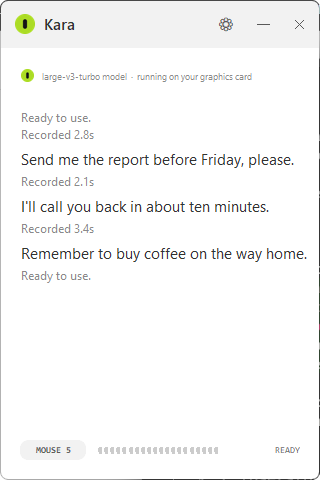
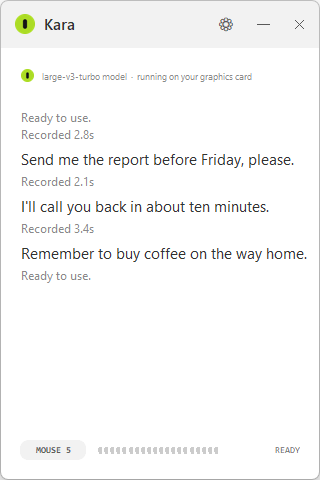
Cut the desktop out of the screenshots properly, and version the download
Two things the shots were carrying that should not have been there.

The corners were cut at a guessed 8px radius. DWM's radius is not 8, so a
crescent of desktop survived in each one: 146 distinct colours around a
one-pixel border, none of them the app's, and visible against the page.

Guessing a better number would have been the same mistake with a
different value, so nothing is guessed now. The window is photographed
twice, over black and over white, and the transparency is solved from the
pair -- composited over black a pixel is colour*a, over white it is
colour*a + 255*(1-a), so the difference gives the alpha and nothing else
can affect it. 146 colours down to 29, and those 29 are the curve.

Getting there needed the backdrop to stop being topmost. The app already
is, and Windows keeps every topmost window above every ordinary one, so
the fight over z-order was self-inflicted; while both were topmost the
sheet covered the app in both shots and the matte came out empty. It
wrote four blank PNGs without complaining, so matte() now refuses to
return something almost entirely transparent.

Separately, the download links carry the version. They pointed at
releases/latest/download/Kara-Setup.exe, a copy under a name that never
changes so the button never needed editing -- at the cost of everyone
downloading a file called "Kara-Setup.exe" with no clue which version it
was. stamp_docs keeps the seven links current instead, and the release
[…]

diff --git a/docs/index.html b/docs/index.html
@@ -92,7 +92,7 @@
     <nav><a href="install.html">Install guide</a></nav>
     <span class="grow"></span>
     <button class="theme-toggle" data-theme-toggle type="button"></button>
-    <a class="btn" href="https://github.com/bryramirezp/kara/releases/latest/download/Kara-Setup.exe">Download</a>
+    <a class="btn" href="https://github.com/bryramirezp/kara/releases/download/v0.2.4/Kara-Setup-0.2.4.exe">Download</a>
   </div>
 </div>
 
@@ -105,7 +105,7 @@
       Hold a key, say it out loud, let go. Your words land in whatever app you
       are using. No internet, no account, no subscription.
     </p>
-    <a class="btn" id="heroBtn" href="https://github.com/bryramirezp/kara/releases/latest/download/Kara-Setup.exe">Download for Windows</a>
+    <a class="btn" id="heroBtn" href="https://github.com/bryramirezp/kara/releases/download/v0.2.4/Kara-Setup-0.2.4.exe">Download for Windows</a>
     <p class="sub">
       <!--dl-size-->72 MB<!--/dl-size--> · Windows 10 and 11 · nothing else to install<br>
       <a href="install.html">Step by step install guide</a>
@@ -206,7 +206,7 @@
     <p class="eyebrow">Getting it</p>
     <h2>Download and run. That is the whole setup.</h2>
     <p style="margin-top:1.6em">
-      <a class="btn" href="https://github.com/bryramirezp/kara/releases/latest/download/Kara-Setup.exe">Download the installer</a>
+      <a class="btn" href="https://github.com/bryramirezp/kara/releases/download/v0.2.4/Kara-Setup-0.2.4.exe">Download the installer</a>
     </p>
     <p>
       It installs for you only, so Windows never asks for an administrator

diff --git a/docs/install.html b/docs/install.html
@@ -72,7 +72,7 @@
     <nav><a href="install.html" aria-current="page">Install guide</a></nav>
     <span class="grow"></span>
     <button class="theme-toggle" data-theme-toggle type="button"></button>
-    <a class="btn" href="https://github.com/bryramirezp/kara/releases/latest/download/Kara-Setup.exe">Download</a>
+    <a class="btn" href="https://github.com/bryramirezp/kara/releases/download/v0.2.4/Kara-Setup-0.2.4.exe">Download</a>
   </div>
 </div>
 
@@ -101,7 +101,7 @@
           You do not need Python or anything else installed first.
         </p>
         <div class="dl-row">
-          <a class="btn" href="https://github.com/bryramirezp/kara/releases/latest/download/Kara-Setup.exe">Download Kara-Setup.exe</a>
+          <a class="btn" href="https://github.com/bryramirezp/kara/releases/download/v0.2.4/Kara-Setup-0.2.4.exe">Download Kara-Setup.exe</a>
           <span class="meta">or pick a version from <a href="https://github.com/bryramirezp/kara/releases/latest">all releases</a></span>
         </div>
       </li>

diff --git a/tools/screenshots.py b/tools/screenshots.py
@@ -9,10 +9,13 @@ day showing an app that no longer existed. Taking them by hand is what made that
 possible, so this does the whole round -- set the theme, launch, wait, find the
 window, capture, restore the theme -- and can be re-run after any UI change.
 
-The window has rounded corners now, and a rectangular grab of the screen would
-carry four little wedges of whatever was behind it. So the corners are cut out
-to transparency afterwards, at the radius Windows itself uses, and the PNGs go
-out with an alpha channel that sits cleanly on either theme of the page.
+The window has rounded corners now, and a rectangular grab of the screen carries
+four little wedges of whatever was behind it. Rather than cut them at a radius --
+which was tried, and left a crescent of desktop in every corner because DWM's
+radius is not the one that was guessed -- the app is photographed twice, over
+black and over white, and the true transparency is solved from the pair. See
+matte(). The PNGs go out with an alpha channel that sits cleanly on either theme
+of the page.
 
 Requires the app's own dependencies, because it runs the app. Your own theme
 setting is put back at the end, including if this crashes.
@@ -30,10 +33,6 @@ ROOT = os.path.dirname(os.path.dirname(os.path.abspath(__file__)))
 DOCS = os.path.join(ROOT, "docs")
 APP_DIR = os.path.join(os.environ.get("LOCALAPPDATA", os.path.expanduser("~")), "Kara")
 SETTINGS = os.path.join(APP_DIR, "settings.json")
-
-# Windows 11 rounds a small window at 8 device-independent pixels.
-CORNER_R = 8
-
 
 def read_settings():
     try:
@@ -140,24 +139,79 @@ def find_hwnd(pid):
 
 
 def grab(rect):
-    import ctypes
-    from ctypes import wintypes
     # Screen grab through PIL rather than GDI: the window is composited, and a
     # PrintWindow of a Tk canvas comes back with holes in it.
     from PIL import ImageGrab
-    return ImageGrab.grab(bbox=rect, all_screens=True).convert("RGBA")
+    return ImageGrab.grab(bbox=rect, all_screens=True).convert("RGB")
 
 
-def round_corners(img, radius):
-    """Cut the corners to transparency so the shot has no desktop in it."""
-    from PIL import ImageDraw
-    ss = 4
-    mask = Image.new("L", (img.width * ss, img.height * ss), 0)
-    ImageDraw.Draw(mask).rounded_rectangle(
-        (0, 0, mask.width - 1, mask.height - 1), radius=radius * ss, fill=255)
-    mask = mask.resize(img.size, Image.LANCZOS)
-    out = img.copy()
-    out.putalpha(mask)
+def backdrop(colour):
+    """A fullscreen sheet of one colour, behind the app."""
+    exe = os.path.join(os.path.dirname(sys.executable), "pythonw.exe")
+    if not os.path.exists(exe):
+        exe = sys.executable
+    p = subprocess.Popen([exe, os.path.join(ROOT, "tools", "_backdrop.py"), colour])
+    time.sleep(1.4)
+    return p
+
+
+def raise_app(pid):
+    """Put the app back on top of the backdrop, which is topmost too."""
+    import ctypes
+    hwnd = find_hwnd(pid)
+    if hwnd:
+        # HWND_TOPMOST, SWP_NOMOVE | SWP_NOSIZE | SWP_NOACTIVATE
+        ctypes.windll.user32.SetWindowPos(hwnd, -1, 0, 0, 0, 0,
+                                          0x0002 | 0x0001 | 0x0010)
+        time.sleep(0.4)
+
+
+def matte(over_black, over_white):
+    """Recover the real transparency by photographing the window twice.
+
+    The first version of this cut the corners to a guessed 8px radius. DWM's
+    radius is not 8, so a crescent of desktop survived in each corner -- 146
+    distinct colours around a one-pixel border, none of them the app's.
+
+    Guessing a better number would be the same mistake with a different value,
+    so nothing is guessed. A pixel composited over black and again over white
+    gives two equations: black = colour*a, white = colour*a + 255*(1-a). Their
+    difference is 255*(1-a) and depends on nothing else, so the alpha falls out
+    exactly -- including the part-covered pixels along the curve, which is what
+    makes the edge look drawn rather than cut.
+    """
+    b = over_black.load()
+    w = over_white.load()
+    W, H = over_black.size
+    out = Image.new("RGBA", (W, H))
+    o = out.load()
+    for y in range(H):
+        for x in range(W):
+            br, bg, bb = b[x, y]
+            wr, wg, wb = w[x, y]
+            # One alpha per pixel, from the mean of the three channels: the
+            # difference is the same in each for a grey-agnostic compositor, and
+            # averaging shrugs off a stray bit of rounding.
+            a = 255 - ((wr - br) + (wg - bg) + (wb - bb)) / 3.0
+            a = max(0.0, min(255.0, a))
+            if a < 8:                      # shadow fringe, not window
+                o[x, y] = (0, 0, 0, 0)
+                continue
+            k = 255.0 / a
+            o[x, y] = (min(255, int(br * k + .5)),
+                       min(255, int(bg * k + .5)),
+                       min(255, int(bb * k + .5)),
+                       int(a + .5))
+
+    # A backdrop that covers the app instead of sitting behind it makes both
+    # shots a flat sheet, the difference 255 everywhere, and every pixel
+    # transparent. That happened, and it wrote four blank PNGs without
+    # complaining. It cannot do that twice.
+    opaque = sum(1 for y in range(0, H, 4) for x in range(0, W, 4)
+                 if o[x, y][3] > 200)
+    if opaque < (W // 4) * (H // 4) * 0.5:
+        raise SystemExit("the matte came out mostly transparent -- the backdrop "
+                         "was probably in front of the app, not behind it")
     return out
 
 
@@ -192,7 +246,15 @@ def shoot(theme, view, out_name, saved):
     import ctypes
     ctypes.windll.user32.SetCursorPos(10, 10)
     time.sleep(0.4)
-    img = round_corners(grab(rect), CORNER_R)
+
+    shots = {}
+    for name, colour in (("black", "000000"), ("white", "ffffff")):
+        sheet = backdrop(colour)
+        raise_app(proc.pid)
+        shots[name] = grab(find_window(proc.pid) or rect)
+        sheet.terminate()
+        time.sleep(0.5)
+    img = matte(shots["black"], shots["white"])
     check(img, view)
     path = os.path.join(DOCS, out_name)
     img.save(path)

diff --git a/tools/stamp_docs.py b/tools/stamp_docs.py
@@ -90,6 +90,27 @@ def rules(ver, mb):
          r"\g<1>%s\g<2>" % ver),
     ]
 
+    # ── The download links ───────────────────────────────────────────────────
+    # These used to point at releases/latest/download/Kara-Setup.exe, a copy of
+    # the installer under a name that never changes, so the button never needed
+    # editing. The cost was the filename: everybody downloaded "Kara-Setup.exe"
+    # with no clue which version it was, and a Downloads folder full of them is
+    # indistinguishable.
+    #
+    # So the links carry the version now, and keeping them working is this
+    # script's job -- which is only safe because the release workflow runs
+    # --check before it builds, and refuses to publish a release whose download
+    # button points at the previous one.
+    # The character classes exclude whitespace and a closing paren, not just a
+    # quote. Markdown does not quote its URLs -- they sit inside ](...) -- and a
+    # class of "anything but a quote" matches newlines, so the first attempt ran
+    # from the first link in the README to the last ".exe" in the file and ate
+    # the thirty-four lines in between.
+    URL = (r"(https://github\.com/bryramirezp/kara/releases/download/)"
+           r"v[^/\s\"')]+(/Kara-Setup-)[^\s\"')]+(\.exe)")
+    for rel in ("README.md", "docs/index.html", "docs/install.html"):
+        r.append((rel, URL, r"\g<1>v%s\g<2>%s\g<3>" % (ver, ver)))
+
     if mb is not None:
         size = "%d MB" % mb
         r += [

diff --git a/tools/_backdrop.py b/tools/_backdrop.py
@@ -1,0 +1,25 @@
+"""A fullscreen sheet of one colour, for tools/screenshots.py to shoot against.
+
+    py -3 tools/_backdrop.py 000000
+
+Not useful on its own. The screenshot script photographs the app twice, once
+over black and once over white, and solves for the transparency from the
+difference -- so it needs something that is exactly the colour it claims to be,
+covering everything the app might sit in front of.
+"""
+import sys
+import tkinter as tk
+
+colour = "#" + (sys.argv[1] if len(sys.argv) > 1 else "000000")
+
+root = tk.Tk()
+root.overrideredirect(True)
+# Deliberately NOT topmost. The app is, and Windows keeps every topmost window
+# above every ordinary one, so this covers the desktop and nothing else without
+# anyone having to fight over z-order. Making this topmost too put it over the
+# app in both shots, and the matte came out empty.
+root.configure(bg=colour)
+root.geometry("%dx%d+0+0" % (root.winfo_screenwidth(), root.winfo_screenheight()))
+# No cursor over it, in case the pointer strays into a shot.
+root.configure(cursor="none")
+root.mainloop()

diff --git a/README.md b/README.md
@@ -11,7 +11,7 @@ No account, no cloud, no subscription.
 
 <img src="docs/screenshot-main-dark.png" alt="The main window" width="300">
 
-[**Download for Windows**](https://github.com/bryramirezp/kara/releases/latest/download/Kara-Setup.exe)
+[**Download for Windows**](https://github.com/bryramirezp/kara/releases/download/v0.2.4/Kara-Setup-0.2.4.exe)
  · [Website](https://bryramirezp.github.io/kara/)
  · [All files](https://github.com/bryramirezp/kara/releases/latest)
 
@@ -45,7 +45,7 @@ that. It dictates text, and that part is free and works with no connection.
 
 ## Download
 
-**[Download the installer](https://github.com/bryramirezp/kara/releases/latest/download/Kara-Setup.exe)**
+**[Download the installer](https://github.com/bryramirezp/kara/releases/download/v0.2.4/Kara-Setup-0.2.4.exe)**
 — <!--dl-size-->72 MB<!--/dl-size-->, for Windows 10 and 11. The link starts the download straight away.
 
 Run it and you are done. You do not need to install Python or anything else.
